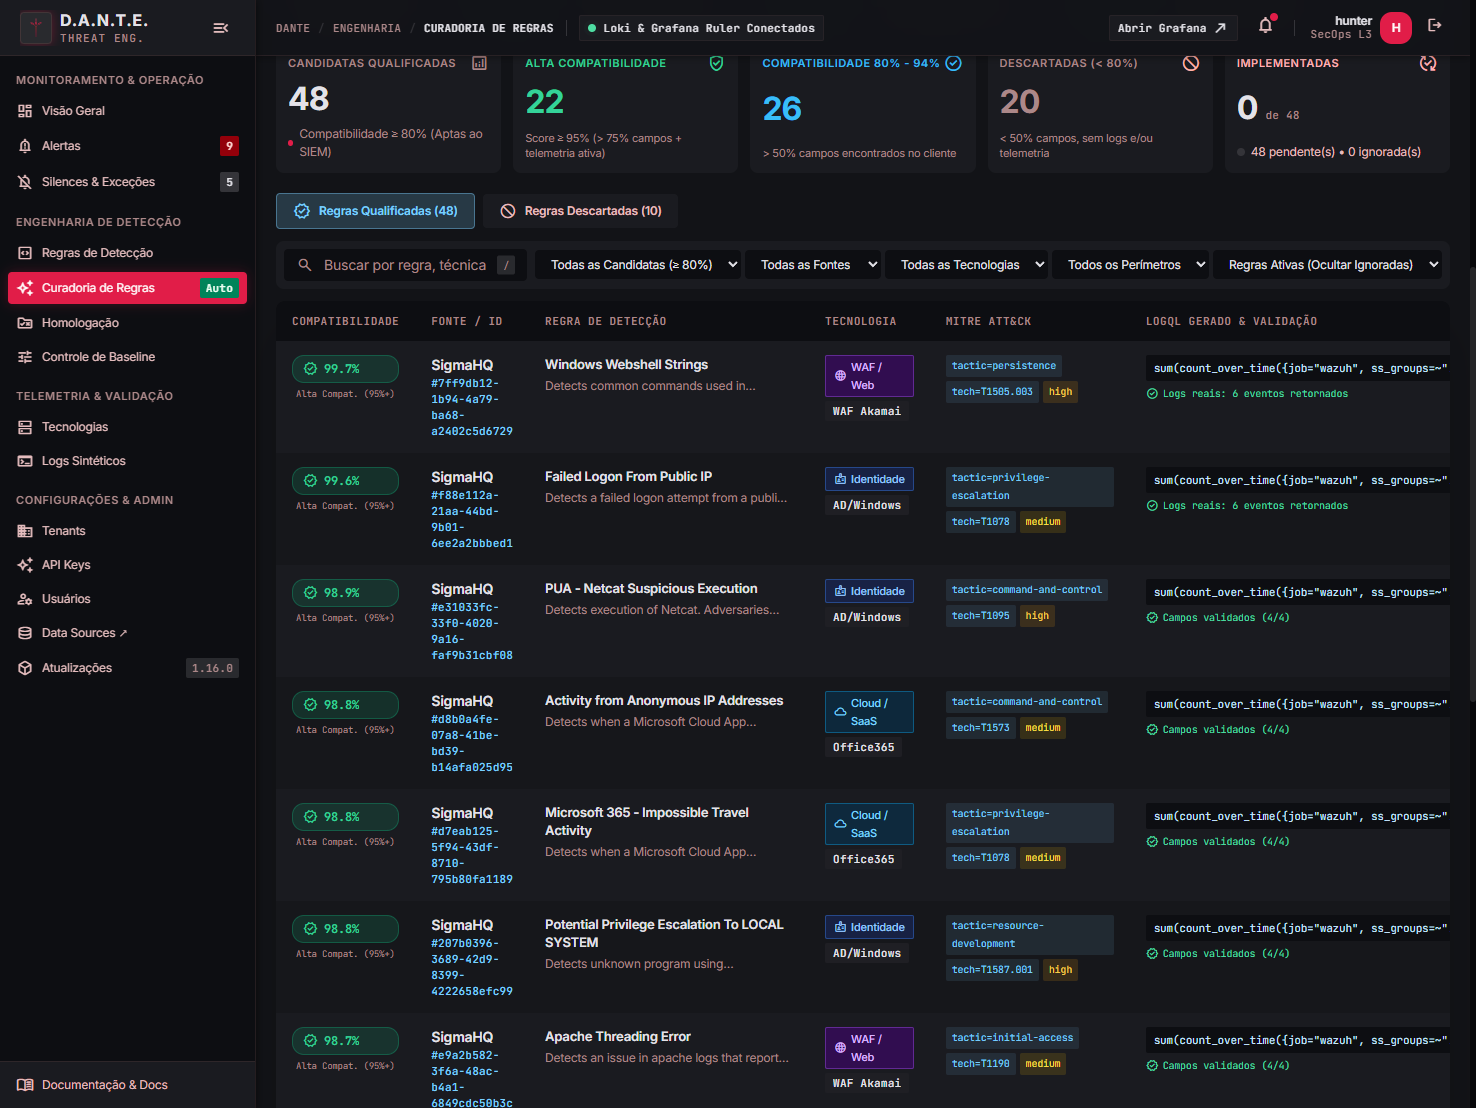
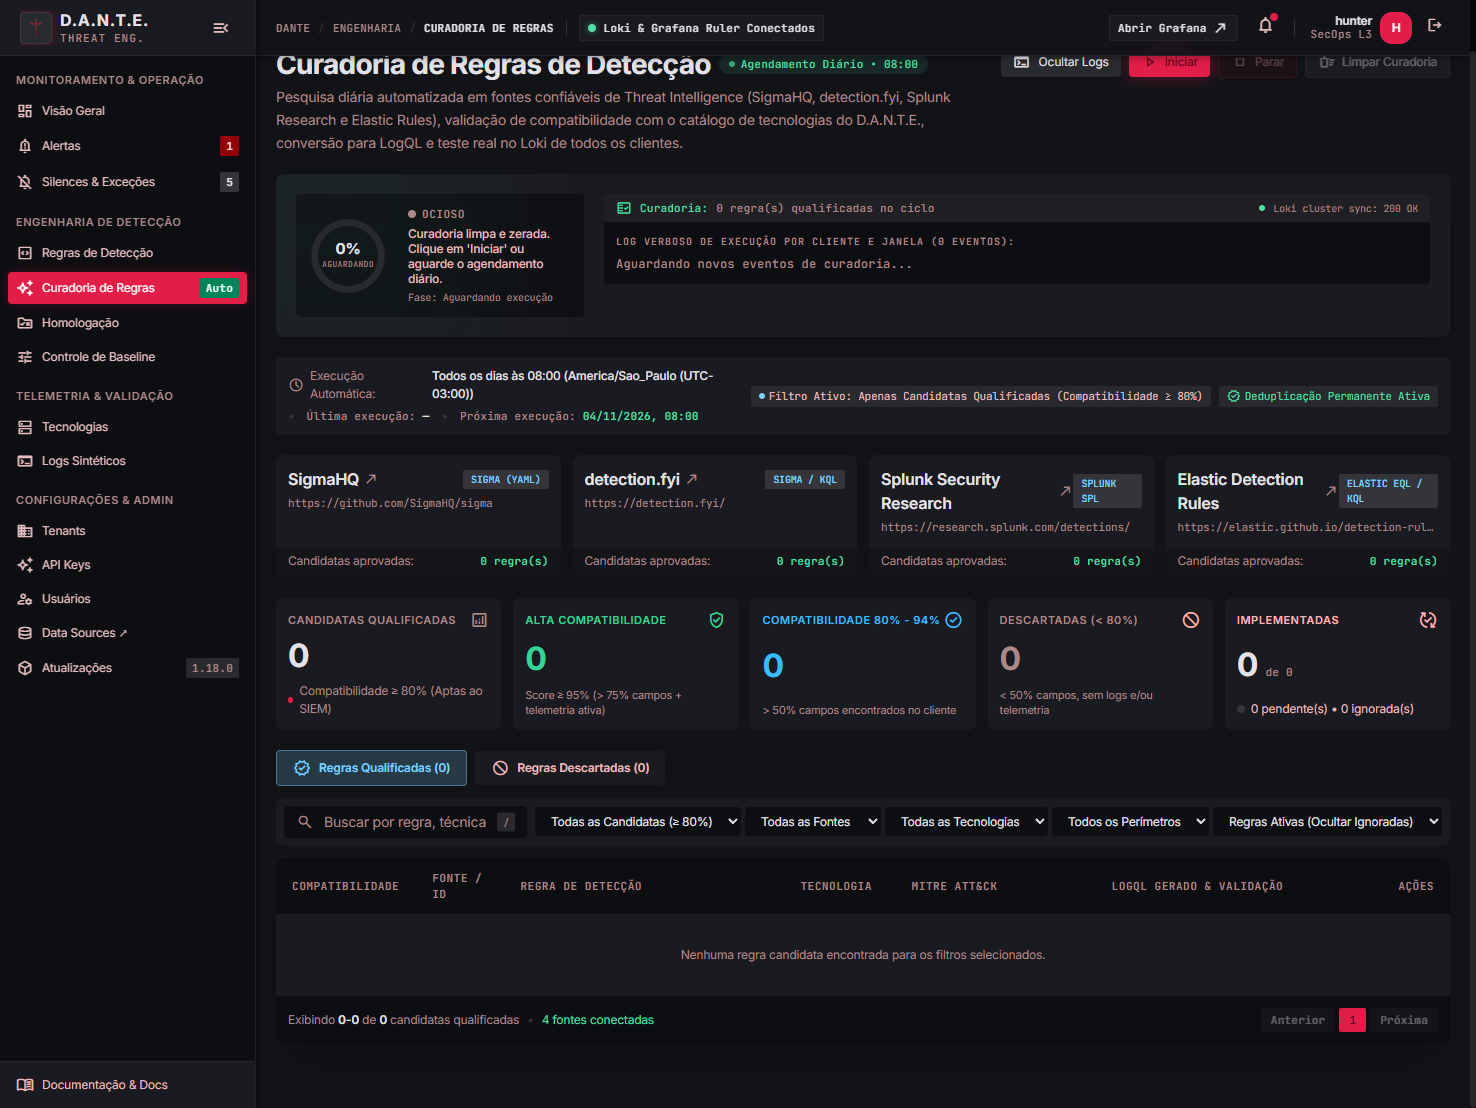
feat(curation): modelo telemetry-first e gap-driven com priorizacao por presenca real de logs e lacunas de clientes

diff --git a/backend/app/curation.py b/backend/app/curation.py
@@ -970,9 +970,14 @@ def match_rule_to_technology(
 def search_rules_in_trusted_sources(
     technologies: list[Technology],
     max_local_sigma: int | None = None,
+    client_gap_techs: set[str] | None = None,
 ) -> list[dict[str, Any]]:
     """Pesquisa regras de detecção nos 4 sites confiáveis filtrando APENAS para
     tecnologias que já existem e estão ativas no D.A.N.T.E.
+
+    Telemetry-First & Gap-Driven: Quando fornecido `client_gap_techs` (tecnologias com
+    telemetria confirmada nos clientes porém com lacunas de regras), prioriza intensivamente
+    regras dessas tecnologias no topo da fila de curadoria.
 
     Só devolve regras REAIS: as do repositório local do SigmaHQ (clonado em /data/sigma-repo),
     com nome, descrição, metadados e URL exatamente como no arquivo original, selecionando
@@ -1066,15 +1071,39 @@ def search_rules_in_trusted_sources(
         else:
             bucket_other.append(cand)
 
+    # Telemetry-First & Gap-Driven: se houver tecnologias prioritárias por lacunas de clientes,
+    # expande a presença dessas tecnologias no lote balanceado
+    gap_set = {s.lower() for s in client_gap_techs} if client_gap_techs else set()
+    gap_first_rules: list[dict[str, Any]] = []
+    if gap_set:
+        for cand in all_candidates:
+            t = match_rule_to_technology(cand, enabled_techs)
+            if t and t.slug.lower() in gap_set:
+                gap_first_rules.append(cand)
+
     balanced: list[dict[str, Any]] = []
-    balanced.extend(bucket_win_sec[:8])
-    balanced.extend(bucket_win_proc4688[:10])
-    balanced.extend(bucket_win_tier2[:10])
-    balanced.extend(bucket_win_tier3[:10])
-    balanced.extend(bucket_fortigate[:6])
-    balanced.extend(bucket_office365[:6])
-    balanced.extend(bucket_linux[:6])
-    balanced.extend(bucket_waf[:6])
+    # Prioriza regras de lacunas no início do catálogo
+    seen_ids = set()
+    for g_cand in gap_first_rules[:16]:
+        gid = str(g_cand.get("external_id") or "")
+        if gid and gid not in seen_ids:
+            seen_ids.add(gid)
+            balanced.append(g_cand)
+
+    for item in (
+        bucket_win_sec[:8]
+        + bucket_win_proc4688[:10]
+        + bucket_win_tier2[:10]
+        + bucket_win_tier3[:10]
+        + bucket_fortigate[:6]
+        + bucket_office365[:6]
+        + bucket_linux[:6]
+        + bucket_waf[:6]
+    ):
+        iid = str(item.get("external_id") or "")
+        if iid and iid not in seen_ids:
+            seen_ids.add(iid)
+            balanced.append(item)
 
     if len(balanced) < 52:
         seen_b = {str(c.get("external_id") or "") for c in balanced}
@@ -2580,8 +2609,31 @@ async def evaluate_rule_across_clients(
                 multi_client=False,
             )
 
+            # Telemetry-First & Gap-Driven: Análise de Lacuna de Detecção no Cliente
+            is_client_gap = False
+            client_tech_rules_count = sum(
+                1 for r in c_rules if (r.get("labels") or {}).get("technology") == technology.slug
+            )
+            has_scanned_logs = tech_logs_count > 0
+            if has_scanned_logs and client_tech_rules_count < 5:
+                is_client_gap = True
+
             # Fatores detalhados da qualificação neste cliente
             client_factors: list[CurationQualificationFactor] = []
+            if is_client_gap:
+                client_factors.append(
+                    CurationQualificationFactor(
+                        criterion="Lacuna de Detecção Prioritária (Gap-Driven)",
+                        status="met",
+                        impact="excellent",
+                        summary=(
+                            f"O cliente '{c_name}' possui telemetria ativa comprovada de {technology.name} "
+                            f"({tech_logs_count} logs no período), mas conta com apenas {client_tech_rules_count} "
+                            "regra(s) implementada(s). Esta regra fecha uma lacuna operacional de detecção."
+                        ),
+                    )
+                )
+
             if targeted_found_fields:
                 client_factors.append(
                     CurationQualificationFactor(
@@ -3839,12 +3891,19 @@ async def _run_curation_cycle_unlocked(
             if q_ann:
                 existing_grafana_qhashes.add(_query_fingerprint(q_ann))
 
-        # Contagem de clientes por tecnologia e perímetro para priorizar as mais prevalentes no parque
+        # Contagem de clientes por tecnologia, telemetria confirmada e lacunas de detecção (Gap-Driven)
         tech_client_counts: dict[str, int] = {}
+        tech_scanned_counts: dict[str, int] = {}
         perim_client_counts: dict[str, int] = {}
+        client_gap_techs: set[str] = set()
+
         for f in client_folders:
             c_uid = str(f.get("uid") or "").strip()
             c_rules = [r for r in all_rules if str(r.get("folderUID") or "") == c_uid]
+            c_rule_techs = {
+                str((r.get("labels") or {}).get("technology") or "").lower()
+                for r in c_rules
+            }
             declared_slugs = declared_map.get(c_uid, [])
             try:
                 scan_rec = scan_store.record_for(c_uid) if scan_store else None
@@ -3866,31 +3925,45 @@ async def _run_curation_cycle_unlocked(
                 if has_t:
                     tech_client_counts[t.slug] = tech_client_counts.get(t.slug, 0) + 1
                     seen_perims_in_client.add(t.perimeter)
+                if t.slug in scanned_techs:
+                    tech_scanned_counts[t.slug] = tech_scanned_counts.get(t.slug, 0) + 1
+                    # Telemetry-First & Gap-Driven: se o cliente tem logs confirmados da tecnologia
+                    # mas possui menos de 5 regras daquela tecnologia, isso é uma lacuna de detecção prioritária!
+                    tech_rule_count = sum(1 for r in c_rules if (r.get("labels") or {}).get("technology") == t.slug)
+                    if tech_rule_count < 5:
+                        client_gap_techs.add(t.slug)
+
             for p in seen_perims_in_client:
                 perim_client_counts[p] = perim_client_counts.get(p, 0) + 1
 
-        # Ordena tecnologias para curadoria: maior presença em clientes primeiro,
+        # Ordena tecnologias para curadoria: telemetria confirmada + presença em clientes primeiro,
         # dando preferência analítica aos perímetros corporativos líderes (Identidade, Cloud / SaaS, Firewall)
-        def _tech_priority(t: Technology) -> tuple[int, int, str]:
+        def _tech_priority(t: Technology) -> tuple[int, int, int, str]:
+            c_scan = tech_scanned_counts.get(t.slug, 0)
             c_cnt = tech_client_counts.get(t.slug, 0)
             p_core = 2 if t.perimeter in ("identity_iam", "cloud_saas") else (1 if t.perimeter in ("firewall", "antimalware_edr") else 0)
-            return (c_cnt, p_core, t.name)
+            return (c_scan, c_cnt, p_core, t.name)
 
         technologies.sort(key=_tech_priority, reverse=True)
 
-        # Filtra as buscas nos 4 sites confiáveis APENAS para tecnologias que já existem no D.A.N.T.E.
-        searched_candidates = search_rules_in_trusted_sources(technologies)
+        # Filtra as buscas nos 4 sites confiáveis APENAS para tecnologias que já existem no D.A.N.T.E.,
+        # priorizando fortemente lacunas reais de detecção (Gap-Driven)
+        searched_candidates = search_rules_in_trusted_sources(technologies, client_gap_techs=client_gap_techs)
 
-        # Priorização estrita da IA e do pipeline: curar primeiro as regras dos perímetros e tecnologias
-        # presentes na maior quantidade de clientes (Identidade - Windows, Cloud / SaaS - Office, etc.)
-        def _candidate_priority(cand: dict[str, Any]) -> tuple[int, int, str]:
+        # Priorização estrita da IA e do pipeline:
+        # 1) Tecnologias com evidência real de telemetria nos clientes (Telemetry-First)
+        # 2) Tecnologias com lacunas de regras identificadas no parque (Gap-Driven)
+        # 3) Prevalência geral de clientes e perímetros líderes
+        def _candidate_priority(cand: dict[str, Any]) -> tuple[int, int, int, int, str]:
             cand_tech = match_rule_to_technology(cand, technologies)
             if not cand_tech:
-                return (-1, -1, "")
+                return (-1, -1, -1, -1, "")
+            is_gap = 1 if cand_tech.slug in client_gap_techs else 0
+            t_scan = tech_scanned_counts.get(cand_tech.slug, 0)
             t_cnt = tech_client_counts.get(cand_tech.slug, 0)
             p_core = 2 if cand_tech.perimeter in ("identity_iam", "cloud_saas") else (1 if cand_tech.perimeter in ("firewall", "antimalware_edr") else 0)
             p_cnt = perim_client_counts.get(cand_tech.perimeter, 0)
-            return (t_cnt, p_core + p_cnt, str(cand.get("original_title") or ""))
+            return (is_gap, t_scan, t_cnt, p_core + p_cnt, str(cand.get("original_title") or ""))
 
         searched_candidates.sort(key=_candidate_priority, reverse=True)
         fetched_count = len(searched_candidates)

diff --git a/backend/app/__init__.py b/backend/app/__init__.py
@@ -1,3 +1,3 @@
 """D.A.N.T.E. - Detection & Alerting Navigator for Threat Engineering."""
 
-__version__ = "1.17.0"
+__version__ = "1.18.0"
